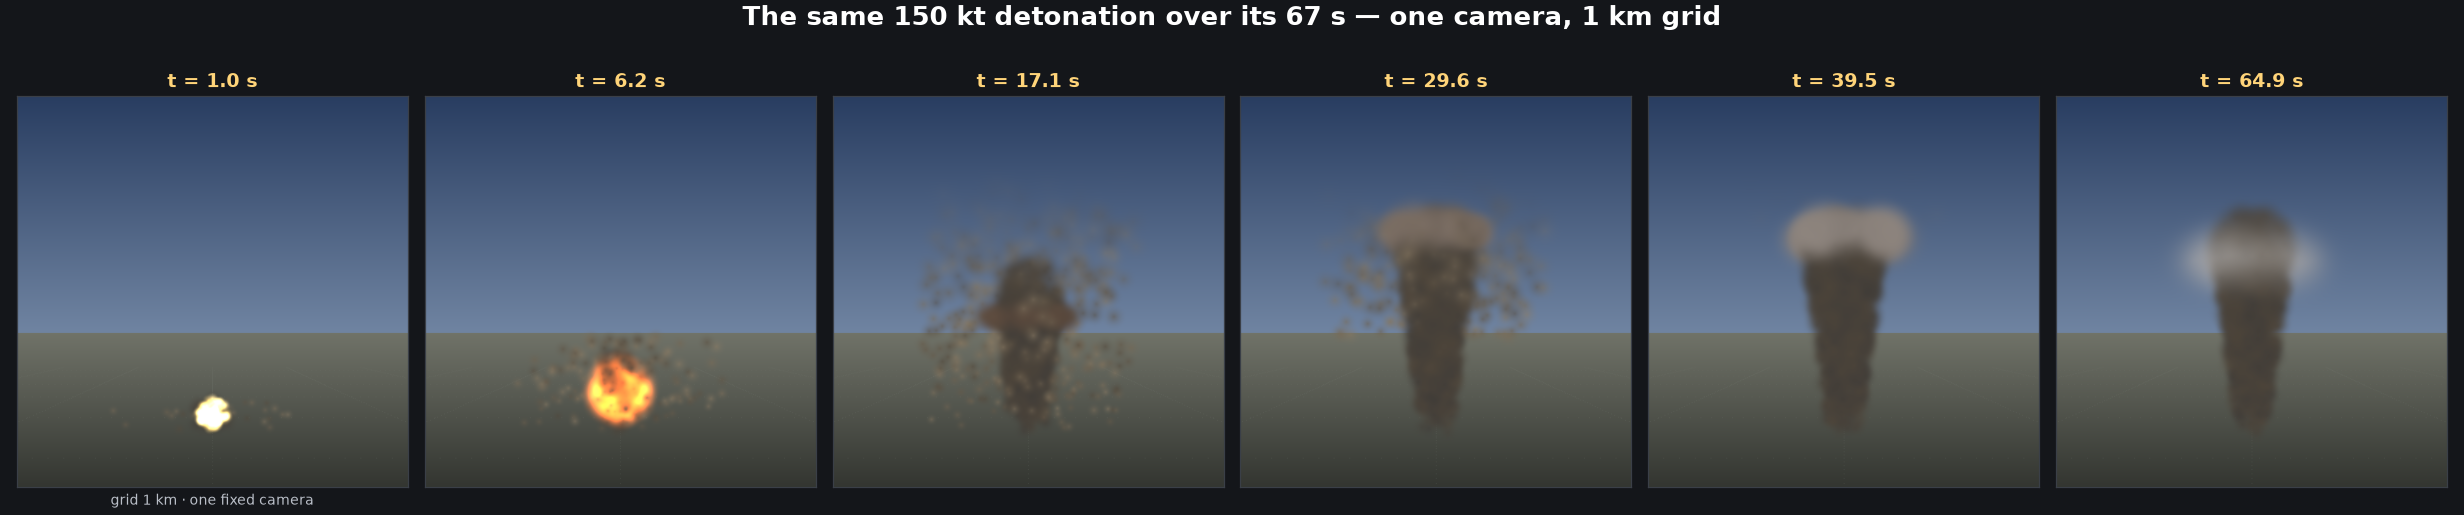
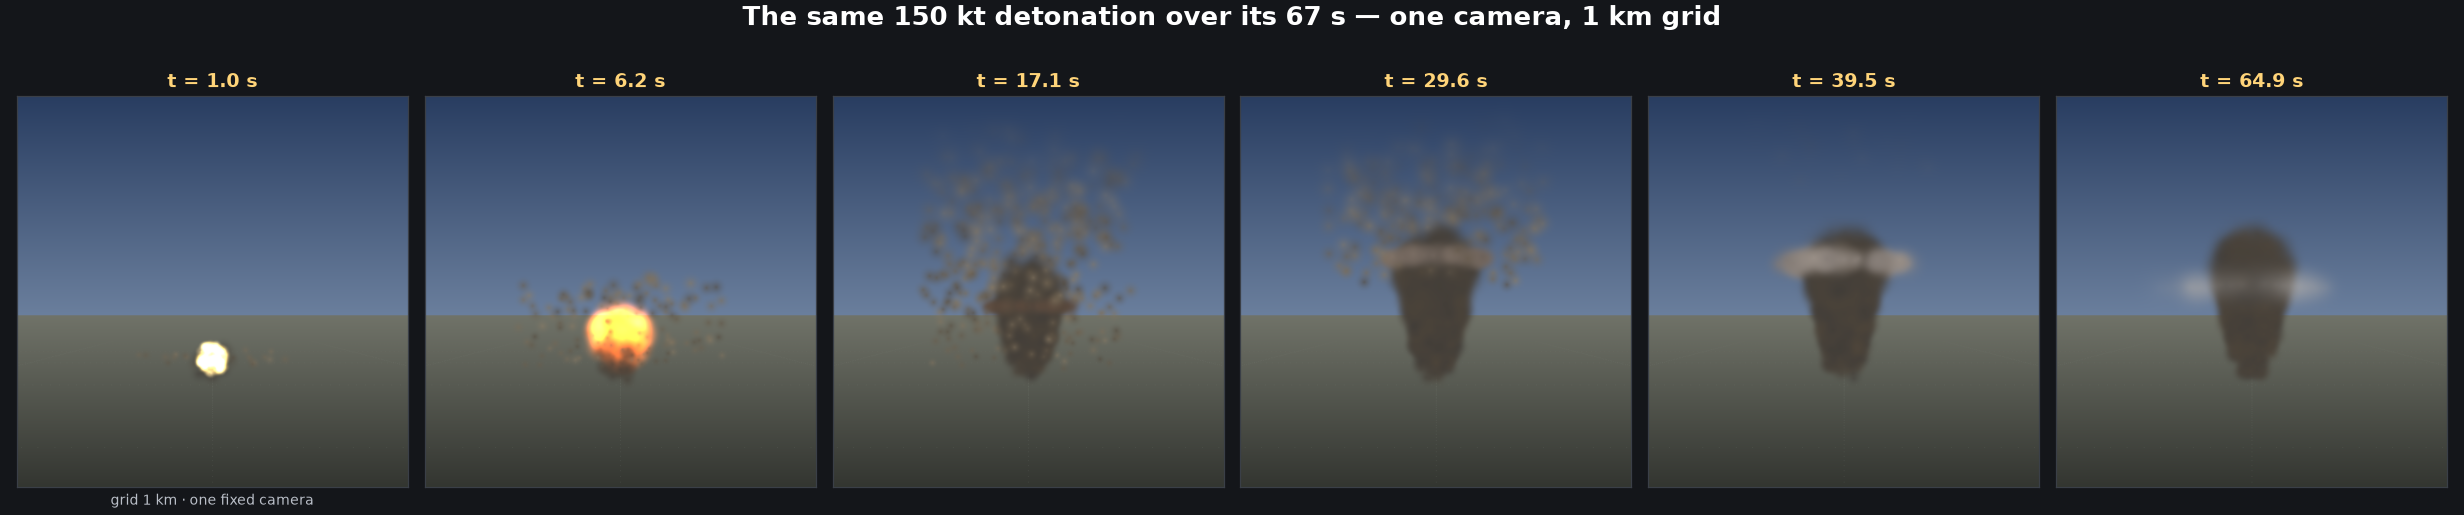
fix: never draw a cloud above the top of the screen
Halving the height was not enough - a 150 kt cloud still stood 1.32 km, and the
answer to how tall is too tall was already in the repository. ModConfig has held
MaxBurstAltitude at 1 km since long before this branch, with a comment saying an
explosion much higher than that is off the top of the screen at the zoom the
game is played at. That is the same question the cloud's height asks, arrived at
the only way it can be, by looking at the game - and the cloud was being drawn a
third above it.

So the drawn height now carries a soft ceiling at that altitude, and the two
share one constant rather than drifting apart: NuclearCloudDisplay.
ScreenTopAltitude, which ModConfig.MaxBurstAltitude is now defined as. Nothing
is drawn over it at any yield, however absurd, and under it the height still
grows - 461 m at 15 kt to 952 m at 50 Mt. The squash below the ceiling comes
down from 0.5 to 0.35 so the ceiling is a guarantee rather than a wall
everything piles against.

The canopy's base is now carried across as a fraction of the cloud rather than
as an absolute altitude, so the tropopause rule survives the squash intact
instead of being measured against a height that has moved.

What this costs is the cap's proportions, and it is worth being plain: depth is
measured down from the top, so a 10 Mt canopy comes out eighteen times wider
than deep where the figures say four. The width is untouched, so the yield still
reads - from the cap rather than from the column.
[…]

diff --git a/tools/effect-preview/render.py b/tools/effect-preview/render.py
@@ -290,49 +290,49 @@ def render_1945(w=680, h=780):
 
 # ---------------------------------------------- how much of it fits on screen
 
-def render_scale_choice(kt=150.0, w=700, h=520):
-    """The same 150 kt burst at four cloud scales, from a camera at the height and distance
-    Cities: Skylines is actually played at, with a city for a ruler. Top row is the fireball,
-    bottom row the mature cloud."""
-    scales = [0.40, 0.30, 0.20, 0.14]
-    fig, axes = plt.subplots(2, 4, figsize=(20.5, 8.2))
+WEAPON_ROW = [("Little Boy", 15), ("150 kt", 150), ("B83", 1200), ("Tsar Bomba", 50000)]
+
+
+def render_heights(w=720, h=560):
+    """Every yield from a close game camera, with the altitude the mod calls the top of the
+    screen marked across the frame."""
+    fig, axes = plt.subplots(1, 4, figsize=(21, 5.0))
     fig.patch.set_facecolor("#14161a")
-    # a game camera: 600 m up, 3.5 km back, 45 degrees
-    cam = fx.Camera((0, 600, -3500), (0, 1200, 0), w, h, 45.0)
+    # a close game camera: 300 m up, 1.6 km back, 45 degrees - a normal playing zoom
+    cam = fx.Camera((0, 300, -1600), (0, 420, 0), w, h, 45.0)
     horizon = int(cam.project(np.array([[0.0, 0.0, 1e7]]))[1][0])
-    for col, sc in enumerate(scales):
-        fx.CLOUD_SCALE = sc
+    for ax, (name, kt) in zip(axes, WEAPON_ROW):
         d = fx.dimensions(kt)
         g = fx.cap_geometry(d)
-        for row, t in enumerate((d["fireball_t"] * 0.7,
-                                 d["rise"] * 0.55 + g["lifetime"] * 0.45)):
-            ax = axes[row, col]
-            img = fx.sky(w, h, max(0, min(h, horizon)))
-            ground_grid(img, cam, 500, 9000)
-            fx.city(img, cam)
-            fx.draw(img, cam, [b for b in (st(d, t) for _, st in fx.STAGES) if b is not None])
-            ax.imshow(img); ax.set_xticks([]); ax.set_yticks([])
-            for sp in ax.spines.values(): sp.set_color("#3a3f47")
-            if row == 0:
-                ax.set_title(f"CloudScale = {sc:.2f}", color="#ffd479", fontsize=14,
-                             fontweight="bold", pad=7)
-                ax.set_xlabel(f"fireball {d['fireball']*2:.0f} m across", fontsize=9.5,
-                              color="#b9bec7")
-            else:
-                ax.set_xlabel(f"top {km(d['top'])} · cap {km(d['cap']*2)} wide",
-                              fontsize=9.5, color="#b9bec7")
-    fx.CLOUD_SCALE = 0.20
-    fig.suptitle(f"A {kt:.0f} kt burst from a game camera — 600 m up, 3.5 km back, 45°, "
-                 f"buildings to 100 m", color="#ffffff", fontsize=17, fontweight="bold", y=0.985)
-    fig.tight_layout(rect=[0, 0.015, 1, 0.93])
-    fig.subplots_adjust(hspace=0.13)
+        t = d["rise"] * 0.55 + g["lifetime"] * 0.45
+        img = fx.sky(w, h, max(0, min(h, horizon)))
+        ground_grid(img, cam, 500, 9000)
+        fx.city(img, cam, reach=1800.0)
+        fx.draw(img, cam, [b for b in (st(d, t) for _, st in fx.STAGES) if b is not None])
+        # the ceiling, at ground zero's distance
+        yline = int(cam.project(np.array([[0.0, fx.SCREEN_TOP, 0.0]]))[1][0])
+        if 0 <= yline < h:
+            img[yline, ::9] = np.array([0.95, 0.72, 0.35])
+        ax.imshow(img); ax.set_xticks([]); ax.set_yticks([])
+        for sp in ax.spines.values(): sp.set_color("#3a3f47")
+        ax.set_title(f"{name} — {kt:,} kt", color="#ffd479", fontsize=14,
+                     fontweight="bold", pad=7)
+        ax.set_xlabel(f"cloud top {d['top']:.0f} m · cap {km(d['cap']*2)} wide · "
+                      f"fireball {d['fireball']*2:.0f} m", fontsize=9.5, color="#b9bec7")
+        if yline < 0:
+            ax.set_xlabel(ax.get_xlabel() + "\n(1000 m line is above the frame)",
+                          fontsize=9.5, color="#b9bec7")
+    fig.suptitle("Heights from a close game camera — 300 m up, 1.6 km back, 45°.  "
+                 "The dotted line is 1000 m, the altitude the mod calls the top of the screen",
+                 color="#ffffff", fontsize=15, fontweight="bold", y=0.985)
+    fig.tight_layout(rect=[0, 0.02, 1, 0.92])
     path = os.path.join(OUT, "cloud-scale.png")
-    fig.savefig(path, dpi=110, facecolor="#14161a"); plt.close(fig)
+    fig.savefig(path, dpi=112, facecolor="#14161a"); plt.close(fig)
     return path
 
 
 if __name__ == "__main__":
     for p in (render_stages(), render_timeline(), render_yields(),
               render_cap_fix(), render_cap_shape(), render_1945(),
-              render_scale_choice()):
+              render_heights()):
         print("wrote", p)

diff --git a/src/MissileDisaster/Core/NuclearCloudDisplay.cs b/src/MissileDisaster/Core/NuclearCloudDisplay.cs
@@ -71,19 +71,34 @@ namespace MissileDisaster.Core
         public const float FireballScale = 0.50f;
 
         /// <summary>
-        /// A further squash applied to the cloud's height alone, on top of CloudScale.
+        /// The altitude the top of the screen is, near enough, at the zoom the game is played at.
+        ///
+        /// This is not a figure about clouds. It is the height the mod already refuses to
+        /// detonate an airburst above - ModConfig.MaxBurstAltitude is this same number, for this
+        /// same reason - and it was arrived at the only way it can be, by looking at the game.
+        /// A cloud drawn taller than the highest thing the mod is willing to put in the sky is a
+        /// cloud whose top the player cannot see, so nothing is ever drawn above it.
+        /// </summary>
+        public const float ScreenTopAltitude = 1000f;
+
+        /// <summary>
+        /// A further squash applied to the cloud's height alone, on top of CloudScale, and then
+        /// a soft ceiling at ScreenTopAltitude.
         ///
         /// Even at a fifth of its real size a cloud is a tall thing - the figures make one taller
         /// than it is wide at every yield below a megaton, because that is what a real one is -
-        /// and height is what runs off the top of a screen. Halving it leaves the canopy as wide
-        /// as it was and brings its top down to where the whole mushroom is comfortably in frame.
+        /// and height is what runs off the top of a screen. The squash brings the whole range
+        /// down; the ceiling then guarantees it, so that no yield, however absurd, can put its
+        /// canopy where the player cannot see it. Between the knee and the ceiling the height
+        /// still grows with the yield, so a Tsar Bomba still stands twice a Little Boy.
         ///
         /// This is the one place where a proportion checked against the photographs is knowingly
-        /// broken: the canopy comes out about twice as flat as the real thing, because its depth
-        /// is measured from the cloud top and the top is what moved. Set it to 1 to have the
-        /// cloud back in proportion, at twice the height.
+        /// broken: the canopy comes out several times flatter than the real thing, because its
+        /// depth is measured down from the cloud top and the top is what moved. Set the squash to
+        /// 1 and the ceiling out of the way to have the cloud back in proportion.
         /// </summary>
-        public const float CloudHeightScale = 0.5f;
+        public const float CloudHeightScale = 0.35f;
+        public const float CloudTopDrawnKnee = 400f;
 
         // The tropopause: the lid the canopy spreads out under, in real metres, before the
         // scale. Through the troposphere the air gets colder with height, so a fireball that
@@ -146,6 +161,9 @@ namespace MissileDisaster.Core
                 CloudTopMin, CloudTopKnee, CloudTopCeiling);
             float capBase = cloudTop * 0.5f;
             if (capBase > TropopauseAltitude) capBase = TropopauseAltitude;
+            // Where the canopy's underside sits as a fraction of the cloud - the tropopause rule,
+            // carried across as a ratio so that squashing the height cannot break it.
+            float baseFraction = capBase / cloudTop;
 
             var d = new NuclearCloudDimensions();
             // The fireball is brought down less far than the cloud around it.
@@ -153,10 +171,10 @@ namespace MissileDisaster.Core
                 FireballRadiusMin, FireballRadiusKnee, FireballRadiusCeiling) * FireballScale;
             d.FireballSeconds = EffectCeiling.Soft(NuclearCloud.FireballSeconds(kt),
                 FireballSecondsMin, FireballSecondsKnee, FireballSecondsCeiling);
-            float vertical = CloudScale * CloudHeightScale;
             d.CapRadius = capRadius * CloudScale;
-            d.CloudTop = cloudTop * vertical;
-            d.CapBase = capBase * vertical;
+            d.CloudTop = EffectCeiling.Soft(cloudTop * CloudScale * CloudHeightScale,
+                CloudTopDrawnKnee, ScreenTopAltitude);
+            d.CapBase = d.CloudTop * baseFraction;
             d.CapDepth = d.CloudTop - d.CapBase;
             d.StemRadius = d.CapRadius * NuclearCloud.StemFraction(kt);
             d.RiseSeconds = EffectCeiling.Soft(NuclearCloud.StabiliseSeconds(kt) / RiseCompression,

diff --git a/tests/MissileDisaster.Core.Tests/NuclearCloudDisplayTests.cs b/tests/MissileDisaster.Core.Tests/NuclearCloudDisplayTests.cs
@@ -9,7 +9,6 @@ using Xunit;
 public class NuclearCloudDisplayTests
 {
     private const float S = NuclearCloudDisplay.CloudScale;
-    private const float V = NuclearCloudDisplay.CloudScale * NuclearCloudDisplay.CloudHeightScale;
 
     [Fact]
     public void Every_weapon_in_the_catalogue_is_drawn_larger_than_the_one_below_it()
@@ -95,8 +94,8 @@ public class NuclearCloudDisplayTests
         NuclearCloudDimensions small = NuclearCloudDisplay.For(15f);
         Assert.Equal(small.CloudTop * 0.5f, small.CapBase, 1);
 
+        // The rule is carried as a ratio, so squashing the height cannot break it.
         NuclearCloudDimensions big = NuclearCloudDisplay.For(10400f);
-        Assert.Equal(NuclearCloudDisplay.TropopauseAltitude * V, big.CapBase, 1);
         Assert.InRange(big.CapBase / big.CloudTop, 0.40f, 0.50f);
     }
 
@@ -105,16 +104,37 @@ public class NuclearCloudDisplayTests
     {
         // The whole point of taking the depth from where the cloud stopped rising: a fixed
         // fraction made every canopy exactly twice as wide as it was deep, at every yield.
-        // The absolute figures here carry CloudHeightScale, which flattens both of them by the
-        // same factor - a small canopy is a ball at CloudHeightScale = 1 - so what is pinned is
-        // that a 10 Mt cap is several times the flatter of the two.
+        // The absolute flatness carries the height squash and the screen ceiling, both of which
+        // flatten everything, so what is pinned is the ordering the physics decides.
         NuclearCloudDimensions small = NuclearCloudDisplay.For(15f);
         NuclearCloudDimensions large = NuclearCloudDisplay.For(10400f);
         float smallFlatness = small.CapRadius * 2f / small.CapDepth;
         float largeFlatness = large.CapRadius * 2f / large.CapDepth;
-        Assert.InRange(smallFlatness * NuclearCloudDisplay.CloudHeightScale, 0.7f, 1.3f);
         Assert.True(largeFlatness > smallFlatness * 3f,
             "a 10 Mt canopy spreads out along the tropopause");
+    }
+
+    [Fact]
+    public void No_cloud_is_ever_drawn_above_the_top_of_the_screen()
+    {
+        // The height is what runs off the screen, so it is the one dimension with a hard
+        // guarantee rather than a soft one: whatever yield is asked for, the canopy stays where
+        // the player can see it - under the altitude the mod already refuses to burst above.
+        foreach (float kt in new[] { 1f, 15f, 150f, 1200f, 10400f, 50000f, 1000000f, 1e9f })
+        {
+            NuclearCloudDimensions d = NuclearCloudDisplay.For(kt);
+            Assert.InRange(d.CloudTop, 1f, NuclearCloudDisplay.ScreenTopAltitude);
+        }
+    }
+
+    [Fact]
+    public void The_height_still_grows_with_the_yield_under_that_ceiling()
+    {
+        // Bounded, but never flattened: a Tsar Bomba still stands visibly taller than a
+        // Little Boy, and every step of the catalogue in between is a step up.
+        Assert.True(NuclearCloudDisplay.For(50000f).CloudTop >
+                    NuclearCloudDisplay.For(15f).CloudTop * 1.5f,
+            "the largest weapon stands half again the smallest");
     }
 
     [Fact]
@@ -149,8 +169,7 @@ public class NuclearCloudDisplayTests
                 NuclearCloudDisplay.FireballRadiusCeiling * NuclearCloudDisplay.FireballScale);
             Assert.InRange(d.CapRadius, NuclearCloudDisplay.CapRadiusMin * S,
                 NuclearCloudDisplay.CapRadiusCeiling * S);
-            Assert.InRange(d.CloudTop, NuclearCloudDisplay.CloudTopMin * V,
-                NuclearCloudDisplay.CloudTopCeiling * V);
+            Assert.InRange(d.CloudTop, 1f, NuclearCloudDisplay.ScreenTopAltitude);
             Assert.InRange(d.RiseSeconds, NuclearCloudDisplay.RiseSecondsMin,
                 NuclearCloudDisplay.RiseSecondsCeiling);
             Assert.InRange(d.FireballSeconds, NuclearCloudDisplay.FireballSecondsMin,

diff --git a/tools/effect-preview/fxlib.py b/tools/effect-preview/fxlib.py
@@ -48,7 +48,9 @@ def hard(v, lo, hi): return max(lo, min(hi, v))
 
 CLOUD_SCALE = 0.20      # NuclearCloudDisplay.CloudScale - playability, not physics
 FIREBALL_SCALE = 0.50   # the fireball comes down less far than the cloud around it
-HEIGHT_SCALE = 0.50     # a further squash on the height alone
+HEIGHT_SCALE = 0.35     # a further squash on the height alone
+SCREEN_TOP = 1000.0     # ScreenTopAltitude - nothing is drawn above the top of the screen
+TOP_KNEE = 400.0
 TROPOPAUSE = 11000.0    # real metres, before the scale
 NEW = dict(fb=(25.0, 3000.0, 7000.0), fbs=(0.8, 12.0, 20.0), cap=(200.0, 8000.0, 26000.0),
            top=(800.0, 12000.0, 30000.0), rise=(12.0, 40.0, 60.0))
@@ -70,8 +72,9 @@ def dimensions(kt, ceilings="new"):
         base = min(d["top"] * 0.5, TROPOPAUSE)
         d["fireball"] *= FIREBALL_SCALE
         d["cap"] *= CLOUD_SCALE
-        d["top"] *= CLOUD_SCALE * HEIGHT_SCALE
-        d["base"] = base * CLOUD_SCALE * HEIGHT_SCALE
+        base_fraction = base / d["top"]
+        d["top"] = soft(d["top"] * CLOUD_SCALE * HEIGHT_SCALE, TOP_KNEE, SCREEN_TOP)
+        d["base"] = d["top"] * base_fraction
     else:
         d = dict(
             fireball=hard(fireball_radius(kt), *OLD["fb"]),

diff --git a/src/MissileDisaster/Game/ModConfig.cs b/src/MissileDisaster/Game/ModConfig.cs
@@ -1,3 +1,4 @@
+using MissileDisaster.Core;
 using UnityEngine;
 
 namespace MissileDisaster.Game
@@ -149,7 +150,9 @@ namespace MissileDisaster.Game
         // approaching it would leave the missile no distance to fall - and partly a playability
         // one, since an explosion much higher than this is off the top of the screen at the zoom
         // the game is normally played at.
-        public const float MaxBurstAltitude = 1000f;
+        // It is that second reading - where the top of the screen is - that the mushroom cloud
+        // is also held under, so the two share one number rather than drifting apart.
+        public const float MaxBurstAltitude = NuclearCloudDisplay.ScreenTopAltitude;
 
         // Sound: loaded from Sounds at runtime and played as positional 3D audio. Main thread.
         public const string SoundsFolderName = "Sounds";

diff --git a/docs/effects/README.md b/docs/effects/README.md
@@ -101,11 +101,8 @@ Sources for the measured figures: [Castle Bravo](https://en.wikipedia.org/wiki/C
 
 ## `cloud-scale.png`
 
-The same 150 kt burst at four values of `NuclearCloudDisplay.CloudScale`, from a camera at the
-height and distance the game is actually played at, with a city for a ruler. This is the figure
-to look at when deciding how large clouds should be. With `CloudHeightScale` at 0.5 every one of
-the four is in frame, so the choice is about how much of the sky a strike should fill rather
-than about whether it fits.
+Four yields from a close game camera, with the 1000 m line marked across the frame — the
+altitude the mod already calls the top of the screen. Every cloud is drawn under it.
 
 ## `nineteen-forty-five.png`
 
@@ -140,12 +137,19 @@ ones in the model that are:
   stands 13.2 km, which from a game camera is a column leaving the top of the screen rather than
   a mushroom. It is applied to cap, stem and height together, so every proportion checked
   against the photographs survives it. Raise it for taller clouds; see `cloud-scale.png`.
-- **`CloudHeightScale = 0.50`** — the height alone is halved again on top of that. Even at a
-  fifth of its real size a cloud is a tall thing, because the figures make one taller than it is
-  wide at every yield below a megaton, and height is what runs off the top of a screen. This is
-  the one proportion checked against the photographs that is knowingly broken: the canopy comes
-  out about twice as flat as the real thing, since its depth is measured from the cloud top and
-  the top is what moved. Set it to 1 to have the cloud back in proportion at twice the height.
+- **`CloudHeightScale = 0.35`, then a soft ceiling at `ScreenTopAltitude = 1000`** — the height
+  alone is squashed further and then bounded outright. Even at a fifth of its real size a cloud
+  is a tall thing, because the figures make one taller than it is wide at every yield below a
+  megaton, and height is what runs off the top of a screen. `ScreenTopAltitude` is not a figure
+  about clouds: it is the altitude the mod already refuses to detonate an airburst above
+  (`ModConfig.MaxBurstAltitude` is the same constant now, for the same reason), arrived at the
+  only way it can be, by looking at the game. Nothing is ever drawn over it, at any yield.
+  Under it the height still grows: 461 m at 15 kt to 952 m at 50 Mt.
+
+  This is the one proportion checked against the photographs that is knowingly broken. The
+  canopy's depth is measured down from the cloud top, so squashing the top flattens the cap with
+  it: a 10 Mt canopy comes out eighteen times wider than deep where the figures say four. The
+  width is untouched, so the yield still reads — from the cap, not the column.
 - **`FireballScale = 0.50`** — the fireball comes down only half way, so it keeps two and a half
   times its share of a cloud that has been brought down to a fifth. At full size it would be
   nearly as wide as a compressed 50 Mt canopy; in step with the cloud it is a spark. At 0.50 it

diff --git a/README.md b/README.md
@@ -51,10 +51,12 @@ radioactive fallout that you can clean up with a dedicated decontamination facil
     ceiling it never reaches, so a B83, an Ivy Mike and a Tsar Bomba are three visibly different
     clouds instead of the same picture
   - **What is deliberately not to scale**, and the only such thing in the model: the cloud is
-    drawn at a fifth of its real size with the height halved again, because a real 150 kt cloud
-    stands 13 km and would leave the top of the screen; the fireball comes down only half way, so
-    it is not lost under it; and the rise is compressed about twelve to one, a strike running
-    about a minute from flash to fading. Three named constants in `Core/NuclearCloudDisplay`.
+    drawn at a fifth of its real size, and its height is squashed further and then bounded at
+    1 km — the altitude the mod already refuses to burst above, because that is where the top of
+    the screen is. No cloud is ever drawn over it, so a strike always fits in frame; under it the
+    height still grows with the yield. The fireball comes down only half way, so it is not lost
+    under the cloud, and the rise is compressed about twelve to one, a strike running about a
+    minute from flash to fading. Four named constants in `Core/NuclearCloudDisplay`.
     See [docs/effects](docs/effects) for renders of every stage, and for what was checked against
     the measured tests and the photographs
 - **Shock wave** — a blast front races out across the ground following Sedov–Taylor
